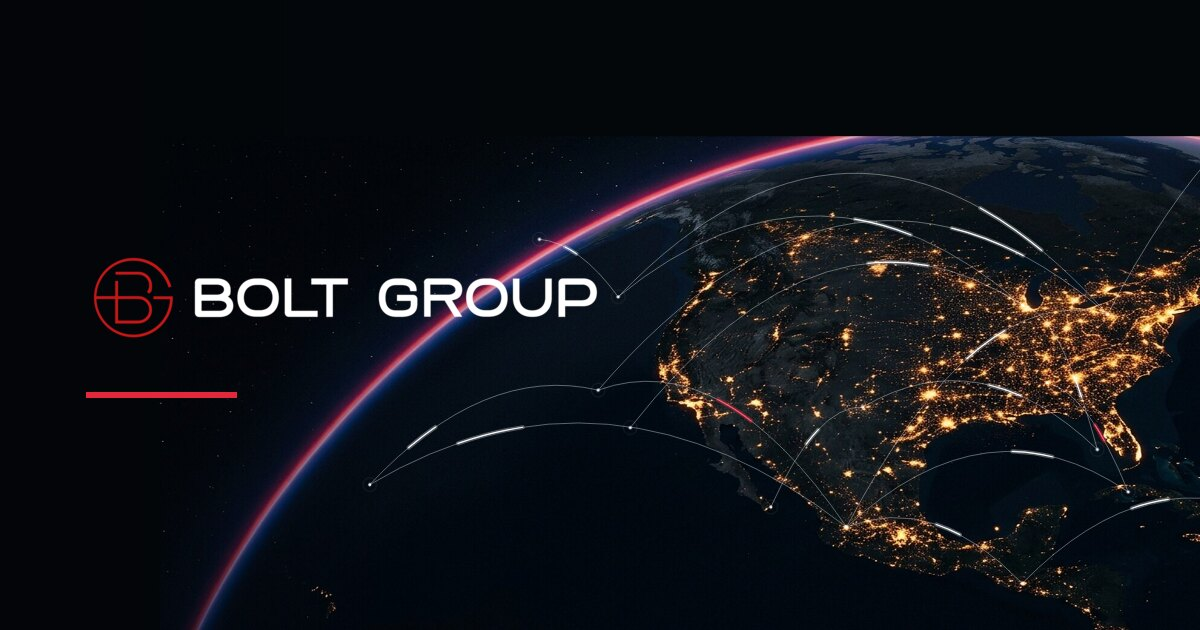
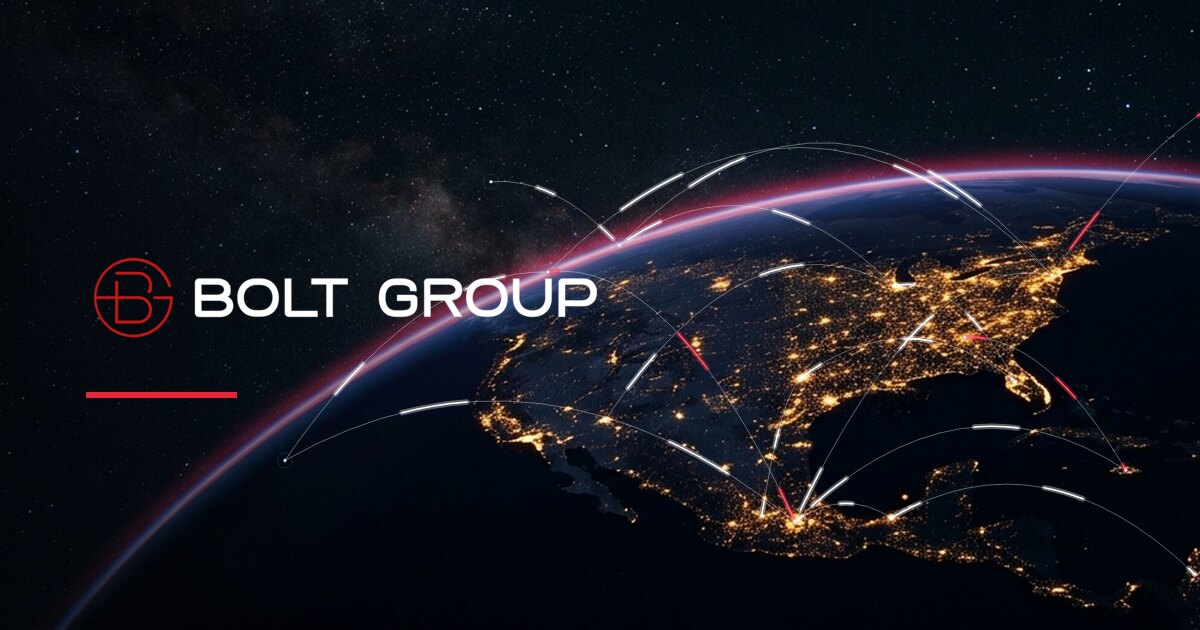
Fix the black band across the top, and make the arc light actually read
Two things were wrong with the last hero.

The band: matching the original's globe size by SHRINKING a too-large render
left a gap that had to be padded, and the pad cut a hard edge through the
atmosphere glow - luminance jumps 6 to 111 at y=225, right where the navbar
sits. My seam check missed it because I sampled a single column in a region
that is black in both, then generalised from it. The frame is now matched by
zooming INTO a render whose globe was too small, which can only ever fill the
frame. Luminance runs 8-19 continuously from the top edge, and the limb still
tracks the original within ~50px.

The animation: it was running (dashoffset advances 0.307 -> 0.573 over two
seconds, measured), but one 13% dash per route crawling across a hero this size
does not read as movement. Period is now 0.5 so every route carries two lights,
cycles are ~40% shorter, and the core is brighter and thicker. Node coordinates
were mapped through the known crop rather than re-picked, so they kept their
cities.

On phones the layer eases back to 0.72 opacity - the cover-crop pulls the globe
under the headline there.

diff --git a/site/index.html b/site/index.html
@@ -165,7 +165,7 @@ img:is([sizes=auto i],[sizes^="auto," i]){contain-intrinsic-size:3000px 1500px}
 				</div>
 				</header>
 				<div data-elementor-type="wp-page" data-elementor-id="9" class="elementor elementor-9" data-elementor-post-type="page">
-				<div class="elementor-element elementor-element-573e6e5 e-flex e-con-boxed e-con e-parent" data-id="573e6e5" data-element_type="container" data-e-type="container" data-settings="{&quot;background_background&quot;:&quot;classic&quot;}"><svg class="bolt-arcs" viewBox="0 0 2560 1040" preserveAspectRatio="xMidYMid slice" aria-hidden="true" focusable="false"><g class="bolt-arcs__rails"><path d="M1687,870 Q1902,461 2118,519"/><path d="M1277,644 Q1698,156 2118,519"/><path d="M1687,870 Q1482,570 1277,644"/><path d="M1330,706 Q1654,293 1978,504"/><path d="M1714,672 Q1908,558 2101,742"/><path d="M1687,870 Q1832,813 1977,963"/><path d="M1978,504 Q2040,516 2101,742"/><path d="M2118,519 Q2309,154 2500,120"/><path d="M1310,490 Q1644,216 1978,504"/><path d="M1687,870 Q1920,654 2152,812"/><path d="M1977,963 Q2190,747 2402,862"/><path d="M1562,837 Q1638,669 1714,672"/><path d="M1310,490 Q1714,68 2118,519"/><path d="M2018,632 Q2085,646 2152,812"/><path d="M1277,644 Q1088,600 900,800"/><path d="M1310,490 Q1245,401 1180,395"/><path d="M1687,870 Q1294,566 900,800"/></g><g class="bolt-arcs__pulses"><path class="bolt-arcs__glow " style="--d:7.5s;--t:0.0s" pathLength="1" d="M1687,870 Q1902,461 2118,519"/><path class="bolt-arcs__core " style="--d:7.5s;--t:0.0s" pathLength="1" d="M1687,870 Q1902,461 2118,519"/><path class="bolt-arcs__glow " style="--d:10.5s;--t:1.2s" pathLength="1" d="M1277,644 Q1698,156 2118,519"/><path class="bolt-arcs__core " style="--d:10.5s;--t:1.2s" pathLength="1" d="M1277,644 Q1698,156 2118,519"/><path class="bolt-arcs__glow is-accent" style="--d:6.0s;--t:2.4s" pathLength="1" d="M1687,870 Q1482,570 1277,644"/><path class="bolt-arcs__core is-accent" style="--d:6.0s;--t:2.4s" pathLength="1" d="M1687,870 Q1482,570 1277,644"/><path class="bolt-arcs__glow " style="--d:9.0s;--t:0.6s" pathLength="1" d="M1330,706 Q1654,293 1978,504"/><path class="bolt-arcs__core " style="--d:9.0s;--t:0.6s" pathLength="1" d="M1330,706 Q1654,293 1978,504"/><path class="bolt-arcs__glow " style="--d:6.5s;--t:3.1s" pathLength="1" d="M1714,672 Q1908,558 2101,742"/><path class="bolt-arcs__core " style="--d:6.5s;--t:3.1s" pathLength="1" d="M1714,672 Q1908,558 2101,742"/><path class="bolt-arcs__glow " style="--d:6.0s;--t:1.8s" pathLength="1" d="M1687,870 Q1832,813 1977,963"/><path class="bolt-arcs__core " style="--d:6.0s;--t:1.8s" pathLength="1" d="M1687,870 Q1832,813 1977,963"/><path class="bolt-arcs__glow " style="--d:7.0s;--t:4.2s" pathLength="1" d="M1978,504 Q2040,516 2101,742"/><path class="bolt-arcs__core " style="--d:7.0s;--t:4.2s" pathLength="1" d="M1978,504 Q2040,516 2101,742"/><path class="bolt-arcs__glow is-accent" style="--d:8.5s;--t:0.9s" pathLength="1" d="M2118,519 Q2309,154 2500,120"/><path class="bolt-arcs__core is-accent" style="--d:8.5s;--t:0.9s" pathLength="1" d="M2118,519 Q2309,154 2500,120"/><path class="bolt-arcs__glow " style="--d:7.5s;--t:5.0s" pathLength="1" d="M1310,490 Q1644,216 1978,504"/><path class="bolt-arcs__core " style="--d:7.5s;--t:5.0s" pathLength="1" d="M1310,490 Q1644,216 1978,504"/><path class="bolt-arcs__glow " style="--d:8.0s;--t:2.9s" pathLength="1" d="M1687,870 Q1920,654 2152,812"/><path class="bolt-arcs__core " style="--d:8.0s;--t:2.9s" pathLength="1" d="M1687,870 Q1920,654 2152,812"/><path class="bolt-arcs__glow " style="--d:6.0s;--t:4.6s" pathLength="1" d="M1977,963 Q2190,747 2402,862"/><path class="bolt-arcs__core " style="--d:6.0s;--t:4.6s" pathLength="1" d="M1977,963 Q2190,747 2402,862"/><path class="bolt-arcs__glow " style="--d:6.5s;--t:5.6s" pathLength="1" d="M1562,837 Q1638,669 1714,672"/><path class="bolt-arcs__core " style="--d:6.5s;--t:5.6s" pathLength="1" d="M1562,837 Q1638,669 1714,672"/><path class="bolt-arcs__glow " style="--d:11.0s;--t:3.6s" pathLength="1" d="M1310,490 Q1714,68 2118,519"/><path class="bolt-arcs__core " style="--d:11.0s;--t:3.6s" pathLength="1" d="M1310,490 Q1714,68 2118,519"/><path class="bolt-arcs__glow is-accent" style="--d:6.0s;--t:6.3s" pathLength="1" d="M2018,632 Q2085,646 2152,812"/><path class="bolt-arcs__core is-accent" style="--d:6.0s;--t:6.3s" pathLength="1" d="M2018,632 Q2085,646 2152,812"/><path class="bolt-arcs__glow " style="--d:9.5s;--t:2.0s" pathLength="1" d="M1277,644 Q1088,600 900,800"/><path class="bolt-arcs__core " style="--d:9.5s;--t:2.0s" pathLength="1" d="M1277,644 Q1088,600 900,800"/><path class="bolt-arcs__glow " style="--d:8.0s;--t:6.8s" pathLength="1" d="M1310,490 Q1245,401 1180,395"/><path class="bolt-arcs__core " style="--d:8.0s;--t:6.8s" pathLength="1" d="M1310,490 Q1245,401 1180,395"/><path class="bolt-arcs__glow " style="--d:10.0s;--t:4.9s" pathLength="1" d="M1687,870 Q1294,566 900,800"/><path class="bolt-arcs__core " style="--d:10.0s;--t:4.9s" pathLength="1" d="M1687,870 Q1294,566 900,800"/></g><g class="bolt-arcs__nodes"><circle class="bolt-arcs__halo" style="--t:0.00s" cx="2018" cy="632" r="9"/><circle class="bolt-arcs__dot" cx="2018" cy="632" r="2.6"/><circle class="bolt-arcs__halo" style="--t:0.47s" cx="2402" cy="862" r="9"/><circle class="bolt-arcs__dot" cx="2402" cy="862" r="2.6"/><circle class="bolt-arcs__halo" style="--t:0.94s" cx="1978" cy="504" r="9"/><circle class="bolt-arcs__dot" cx="1978" cy="504" r="2.6"/><circle class="bolt-arcs__halo" style="--t:1.41s" cx="2152" cy="812" r="9"/><circle class="bolt-arcs__dot" cx="2152" cy="812" r="2.6"/><circle class="bolt-arcs__halo" style="--t:1.88s" cx="1562" cy="837" r="9"/><circle class="bolt-arcs__dot" cx="1562" cy="837" r="2.6"/><circle class="bolt-arcs__halo" style="--t:2.35s" cx="1714" cy="672" r="9"/><circle class="bolt-arcs__dot" cx="1714" cy="672" r="2.6"/><circle class="bolt-arcs__halo" style="--t:2.82s" cx="1277" cy="644" r="9"/><circle class="bolt-arcs__dot" cx="1277" cy="644" r="2.6"/><circle class="bolt-arcs__halo" style="--t:3.29s" cx="1687" cy="870" r="9"/><circle class="bolt-arcs__dot" cx="1687" cy="870" r="2.6"/><circle class="bolt-arcs__halo" style="--t:3.76s" cx="2101" cy="742" r="9"/><circle class="bolt-arcs__dot" cx="2101" cy="742" r="2.6"/><circle class="bolt-arcs__halo" style="--t:4.23s" cx="1180" cy="395" r="9"/><circle class="bolt-arcs__dot" cx="1180" cy="395" r="2.6"/><circle class="bolt-arcs__halo" style="--t:4.70s" cx="2118" cy="519" r="9"/><circle class="bolt-arcs__dot" cx="2118" cy="519" r="2.6"/><circle class="bolt-arcs__halo" style="--t:5.17s" cx="900" cy="800" r="9"/><circle class="bolt-arcs__dot" cx="900" cy="800" r="2.6"/><circle class="bolt-arcs__halo" style="--t:5.64s" cx="1977" cy="963" r="9"/><circle class="bolt-arcs__dot" cx="1977" cy="963" r="2.6"/><circle class="bolt-arcs__halo" style="--t:6.11s" cx="1310" cy="490" r="9"/><circle class="bolt-arcs__dot" cx="1310" cy="490" r="2.6"/><circle class="bolt-arcs__halo" style="--t:6.58s" cx="1330" cy="706" r="9"/><circle class="bolt-arcs__dot" cx="1330" cy="706" r="2.6"/></g></svg>
+				<div class="elementor-element elementor-element-573e6e5 e-flex e-con-boxed e-con e-parent" data-id="573e6e5" data-element_type="container" data-e-type="container" data-settings="{&quot;background_background&quot;:&quot;classic&quot;}"><svg class="bolt-arcs" viewBox="0 0 2560 1040" preserveAspectRatio="xMidYMid slice" aria-hidden="true" focusable="false"><g class="bolt-arcs__rails"><path d="M1602,861 Q1814,411 2026,454"/><path d="M1194,449 Q1610,35 2026,454"/><path d="M1602,861 Q1398,423 1194,449"/><path d="M1288,694 Q1526,341 1765,472"/><path d="M1614,622 Q1790,492 1966,630"/><path d="M1602,861 Q1682,804 1761,855"/><path d="M1765,472 Q1866,449 1966,630"/><path d="M2026,454 Q2263,106 2500,110"/><path d="M1312,405 Q1538,246 1765,472"/><path d="M1602,861 Q1875,597 2148,776"/><path d="M1761,855 Q2012,708 2262,948"/><path d="M1547,851 Q1580,646 1614,622"/><path d="M1312,405 Q1669,43 2026,454"/><path d="M1882,557 Q2015,549 2148,776"/><path d="M1194,449 Q977,444 760,760"/><path d="M1312,405 Q1206,291 1100,300"/><path d="M1602,861 Q1181,522 760,760"/></g><g class="bolt-arcs__pulses"><path class="bolt-arcs__glow " style="--d:4.5s;--t:0.0s" pathLength="1" d="M1602,861 Q1814,411 2026,454"/><path class="bolt-arcs__core " style="--d:4.5s;--t:0.0s" pathLength="1" d="M1602,861 Q1814,411 2026,454"/><path class="bolt-arcs__glow " style="--d:6.3s;--t:1.2s" pathLength="1" d="M1194,449 Q1610,35 2026,454"/><path class="bolt-arcs__core " style="--d:6.3s;--t:1.2s" pathLength="1" d="M1194,449 Q1610,35 2026,454"/><path class="bolt-arcs__glow is-accent" style="--d:4.0s;--t:2.4s" pathLength="1" d="M1602,861 Q1398,423 1194,449"/><path class="bolt-arcs__core is-accent" style="--d:4.0s;--t:2.4s" pathLength="1" d="M1602,861 Q1398,423 1194,449"/><path class="bolt-arcs__glow " style="--d:5.4s;--t:0.6s" pathLength="1" d="M1288,694 Q1526,341 1765,472"/><path class="bolt-arcs__core " style="--d:5.4s;--t:0.6s" pathLength="1" d="M1288,694 Q1526,341 1765,472"/><path class="bolt-arcs__glow " style="--d:4.0s;--t:3.1s" pathLength="1" d="M1614,622 Q1790,492 1966,630"/><path class="bolt-arcs__core " style="--d:4.0s;--t:3.1s" pathLength="1" d="M1614,622 Q1790,492 1966,630"/><path class="bolt-arcs__glow " style="--d:4.0s;--t:1.8s" pathLength="1" d="M1602,861 Q1682,804 1761,855"/><path class="bolt-arcs__core " style="--d:4.0s;--t:1.8s" pathLength="1" d="M1602,861 Q1682,804 1761,855"/><path class="bolt-arcs__glow " style="--d:4.2s;--t:4.2s" pathLength="1" d="M1765,472 Q1866,449 1966,630"/><path class="bolt-arcs__core " style="--d:4.2s;--t:4.2s" pathLength="1" d="M1765,472 Q1866,449 1966,630"/><path class="bolt-arcs__glow is-accent" style="--d:5.1s;--t:0.9s" pathLength="1" d="M2026,454 Q2263,106 2500,110"/><path class="bolt-arcs__core is-accent" style="--d:5.1s;--t:0.9s" pathLength="1" d="M2026,454 Q2263,106 2500,110"/><path class="bolt-arcs__glow " style="--d:4.5s;--t:5.0s" pathLength="1" d="M1312,405 Q1538,246 1765,472"/><path class="bolt-arcs__core " style="--d:4.5s;--t:5.0s" pathLength="1" d="M1312,405 Q1538,246 1765,472"/><path class="bolt-arcs__glow " style="--d:4.8s;--t:2.9s" pathLength="1" d="M1602,861 Q1875,597 2148,776"/><path class="bolt-arcs__core " style="--d:4.8s;--t:2.9s" pathLength="1" d="M1602,861 Q1875,597 2148,776"/><path class="bolt-arcs__glow " style="--d:4.0s;--t:4.6s" pathLength="1" d="M1761,855 Q2012,708 2262,948"/><path class="bolt-arcs__core " style="--d:4.0s;--t:4.6s" pathLength="1" d="M1761,855 Q2012,708 2262,948"/><path class="bolt-arcs__glow " style="--d:4.0s;--t:5.6s" pathLength="1" d="M1547,851 Q1580,646 1614,622"/><path class="bolt-arcs__core " style="--d:4.0s;--t:5.6s" pathLength="1" d="M1547,851 Q1580,646 1614,622"/><path class="bolt-arcs__glow " style="--d:6.6s;--t:3.6s" pathLength="1" d="M1312,405 Q1669,43 2026,454"/><path class="bolt-arcs__core " style="--d:6.6s;--t:3.6s" pathLength="1" d="M1312,405 Q1669,43 2026,454"/><path class="bolt-arcs__glow is-accent" style="--d:4.0s;--t:6.3s" pathLength="1" d="M1882,557 Q2015,549 2148,776"/><path class="bolt-arcs__core is-accent" style="--d:4.0s;--t:6.3s" pathLength="1" d="M1882,557 Q2015,549 2148,776"/><path class="bolt-arcs__glow " style="--d:5.7s;--t:2.0s" pathLength="1" d="M1194,449 Q977,444 760,760"/><path class="bolt-arcs__core " style="--d:5.7s;--t:2.0s" pathLength="1" d="M1194,449 Q977,444 760,760"/><path class="bolt-arcs__glow " style="--d:4.8s;--t:6.8s" pathLength="1" d="M1312,405 Q1206,291 1100,300"/><path class="bolt-arcs__core " style="--d:4.8s;--t:6.8s" pathLength="1" d="M1312,405 Q1206,291 1100,300"/><path class="bolt-arcs__glow " style="--d:6.0s;--t:4.9s" pathLength="1" d="M1602,861 Q1181,522 760,760"/><path class="bolt-arcs__core " style="--d:6.0s;--t:4.9s" pathLength="1" d="M1602,861 Q1181,522 760,760"/></g><g class="bolt-arcs__nodes"><circle class="bolt-arcs__halo" style="--t:0.00s" cx="1882" cy="557" r="9"/><circle class="bolt-arcs__dot" cx="1882" cy="557" r="2.6"/><circle class="bolt-arcs__halo" style="--t:0.47s" cx="2262" cy="948" r="9"/><circle class="bolt-arcs__dot" cx="2262" cy="948" r="2.6"/><circle class="bolt-arcs__halo" style="--t:0.94s" cx="1765" cy="472" r="9"/><circle class="bolt-arcs__dot" cx="1765" cy="472" r="2.6"/><circle class="bolt-arcs__halo" style="--t:1.41s" cx="2148" cy="776" r="9"/><circle class="bolt-arcs__dot" cx="2148" cy="776" r="2.6"/><circle class="bolt-arcs__halo" style="--t:1.88s" cx="1547" cy="851" r="9"/><circle class="bolt-arcs__dot" cx="1547" cy="851" r="2.6"/><circle class="bolt-arcs__halo" style="--t:2.35s" cx="1614" cy="622" r="9"/><circle class="bolt-arcs__dot" cx="1614" cy="622" r="2.6"/><circle class="bolt-arcs__halo" style="--t:2.82s" cx="1194" cy="449" r="9"/><circle class="bolt-arcs__dot" cx="1194" cy="449" r="2.6"/><circle class="bolt-arcs__halo" style="--t:3.29s" cx="1602" cy="861" r="9"/><circle class="bolt-arcs__dot" cx="1602" cy="861" r="2.6"/><circle class="bolt-arcs__halo" style="--t:3.76s" cx="1966" cy="630" r="9"/><circle class="bolt-arcs__dot" cx="1966" cy="630" r="2.6"/><circle class="bolt-arcs__halo" style="--t:4.23s" cx="1100" cy="300" r="9"/><circle class="bolt-arcs__dot" cx="1100" cy="300" r="2.6"/><circle class="bolt-arcs__halo" style="--t:4.70s" cx="2026" cy="454" r="9"/><circle class="bolt-arcs__dot" cx="2026" cy="454" r="2.6"/><circle class="bolt-arcs__halo" style="--t:5.17s" cx="760" cy="760" r="9"/><circle class="bolt-arcs__dot" cx="760" cy="760" r="2.6"/><circle class="bolt-arcs__halo" style="--t:5.64s" cx="1761" cy="855" r="9"/><circle class="bolt-arcs__dot" cx="1761" cy="855" r="2.6"/><circle class="bolt-arcs__halo" style="--t:6.11s" cx="1312" cy="405" r="9"/><circle class="bolt-arcs__dot" cx="1312" cy="405" r="2.6"/><circle class="bolt-arcs__halo" style="--t:6.58s" cx="1288" cy="694" r="9"/><circle class="bolt-arcs__dot" cx="1288" cy="694" r="2.6"/></g></svg>
 					<div class="e-con-inner">
 		<div class="elementor-element elementor-element-ecb6ab4 e-con-full e-flex e-con e-child" data-id="ecb6ab4" data-element_type="container" data-e-type="container">
 				<div class="elementor-element elementor-element-3570027 elementor-widget elementor-widget-heading" data-id="3570027" data-element_type="widget" data-e-type="widget" data-widget_type="heading.default">

diff --git a/site/assets/bolt.css b/site/assets/bolt.css
@@ -228,13 +228,15 @@
 .bolt-arcs__core {
     fill: none;
     stroke-linecap: round;
-    /* pathLength="1" on the element means these are fractions of the route */
-    stroke-dasharray: 0.13 0.87;
+    /* pathLength="1" on the element means these are fractions of the route.
+       Period 0.5 puts TWO lights on every route instead of one - with a single
+       short dash per arc the motion was too sparse to read as movement. */
+    stroke-dasharray: 0.12 0.38;
     animation: bolt-arc-travel var(--d, 8s) linear var(--t, 0s) infinite;
 }
 
-.bolt-arcs__glow { stroke: rgba(255, 255, 255, 0.30); stroke-width: 7; }
-.bolt-arcs__core { stroke: rgba(255, 255, 255, 0.95); stroke-width: 2; }
+.bolt-arcs__glow { stroke: rgba(255, 255, 255, 0.34); stroke-width: 9; }
+.bolt-arcs__core { stroke: rgba(255, 255, 255, 1);    stroke-width: 2.6; }
 
 .bolt-arcs__glow.is-accent { stroke: rgba(227, 40, 62, 0.42); }
 .bolt-arcs__core.is-accent { stroke: rgba(255, 96, 116, 0.95); }
@@ -253,8 +255,8 @@
 }
 
 @keyframes bolt-arc-node {
-    0%        { r: 4;  opacity: 0.55; }
-    70%, 100% { r: 17; opacity: 0; }
+    0%        { r: 4;  opacity: 0.7; }
+    70%, 100% { r: 19; opacity: 0; }
 }
 
 
@@ -263,6 +265,9 @@
    The rails all stay, so the network still reads the same. */
 @media (max-width: 767px) {
     .bolt-arcs__pulses > path:nth-child(n+17) { display: none; }
+    /* the cover-crop pulls the globe under the headline on a phone, so ease
+       the whole layer back a touch to keep the type crisp */
+    .bolt-arcs { opacity: 0.72; }
 }
 
 @media (prefers-reduced-motion: reduce) {

diff --git a/tools-arcs-generator.py b/tools-arcs-generator.py
@@ -11,34 +11,35 @@ import math, json, sys
 W, H = 2560, 1040
 
 NODES = {
-    # picked off the hero art, nudged onto the nearest light (28px)
-    "SEA": (1310, 490), "LAX": (1277, 644), "TIJ": (1330, 706),
-    "CHI": (1978, 504), "NYC": (2118, 519), "ATL": (2018, 632),
-    "HOU": (1714, 672), "MIA": (2101, 742), "GDL": (1562, 837),
-    "MEX": (1687, 870), "CUB": (2152, 812), "PAN": (1977, 963),
-    "BOG": (2402, 862), "EUR": (2500, 120),
-    "PAC": (900, 800), "NOR": (1180, 395),
+    # mapped from the previous frame through the known crop, then
+    # nudged onto the nearest light (26px)
+    "SEA": (1312, 405), "LAX": (1194, 449), "TIJ": (1288, 694),
+    "CHI": (1765, 472), "NYC": (2026, 454), "ATL": (1882, 557),
+    "HOU": (1614, 622), "MIA": (1966, 630), "GDL": (1547, 851),
+    "MEX": (1602, 861), "CUB": (2148, 776), "PAN": (1761, 855),
+    "BOG": (2262, 948), "EUR": (2500, 110), "PAC": (760, 760),
+    "NOR": (1100, 300),
 }
 
 # (from, to, lift, seconds, delay, accent)
 ARCS = [
-    ("MEX", "NYC", 0.42,  7.5, 0.0,  False),
-    ("LAX", "NYC", 0.50, 10.5, 1.2,  False),
-    ("MEX", "LAX", 0.40,  6.0, 2.4,  True),
-    ("TIJ", "CHI", 0.46,  9.0, 0.6,  False),
-    ("HOU", "MIA", 0.38,  6.5, 3.1,  False),
-    ("MEX", "PAN", 0.34,  6.0, 1.8,  False),
-    ("CHI", "MIA", 0.40,  7.0, 4.2,  False),
-    ("NYC", "EUR", 0.30,  8.5, 0.9,  True),
-    ("SEA", "CHI", 0.42,  7.5, 5.0,  False),
-    ("MEX", "CUB", 0.40,  8.0, 2.9,  False),
-    ("PAN", "BOG", 0.38,  6.0, 4.6,  False),
-    ("GDL", "HOU", 0.38,  6.5, 5.6,  False),
-    ("SEA", "NYC", 0.54, 11.0, 3.6,  False),
-    ("ATL", "CUB", 0.34,  6.0, 6.3,  True),
-    ("LAX", "PAC", 0.30,  9.5, 2.0,  False),
-    ("SEA", "NOR", 0.26,  8.0, 6.8,  False),
-    ("MEX", "PAC", 0.34, 10.0, 4.9,  False),
+    ("MEX", "NYC", 0.42,  4.5, 0.0,  False),
+    ("LAX", "NYC", 0.50, 6.3, 1.2,  False),
+    ("MEX", "LAX", 0.40,  4.0, 2.4,  True),
+    ("TIJ", "CHI", 0.46,  5.4, 0.6,  False),
+    ("HOU", "MIA", 0.38,  4.0, 3.1,  False),
+    ("MEX", "PAN", 0.34,  4.0, 1.8,  False),
+    ("CHI", "MIA", 0.40,  4.2, 4.2,  False),
+    ("NYC", "EUR", 0.30,  5.1, 0.9,  True),
+    ("SEA", "CHI", 0.42,  4.5, 5.0,  False),
+    ("MEX", "CUB", 0.40,  4.8, 2.9,  False),
+    ("PAN", "BOG", 0.38,  4.0, 4.6,  False),
+    ("GDL", "HOU", 0.38,  4.0, 5.6,  False),
+    ("SEA", "NYC", 0.54, 6.6, 3.6,  False),
+    ("ATL", "CUB", 0.34,  4.0, 6.3,  True),
+    ("LAX", "PAC", 0.30,  5.7, 2.0,  False),
+    ("SEA", "NOR", 0.26,  4.8, 6.8,  False),
+    ("MEX", "PAC", 0.34, 6.0, 4.9,  False),
 ]
 
 def path_d(a, b, lift):

diff --git a/README.md b/README.md
@@ -115,11 +115,13 @@ and stagger are the inline `--d` and `--t` custom properties.
 
 The globe was matched to the original shot by measurement, not by eye: a script
 reads the planet's bright rim per column in both images and a least-squares fit
-gives the scale that lands one on the other. The generated frame was ~20% too
-large, so it is scaled down anchored to the **bottom-right** corner - the planet
-stays welded to that corner and the only gap opens at the top-left, which is
-empty black space in both images, so it fills invisibly (measured seam: 4-9 lum
-out of 255).
+gives the crop that lands one curve on the other.
+
+It matches by **zooming in** on a render whose globe was too small, never by
+shrinking one that was too big. Shrinking leaves a gap that has to be padded,
+and padding the top of this frame cuts a hard edge straight through the
+atmosphere glow - a flat black band right where the navbar sits. Zooming in can
+only ever fill the frame.
 
 To change the network, edit the `NODES` and `ARCS` tables in the generator
 (kept out of the repo) or just hand-edit the paths in `index.html` — the
